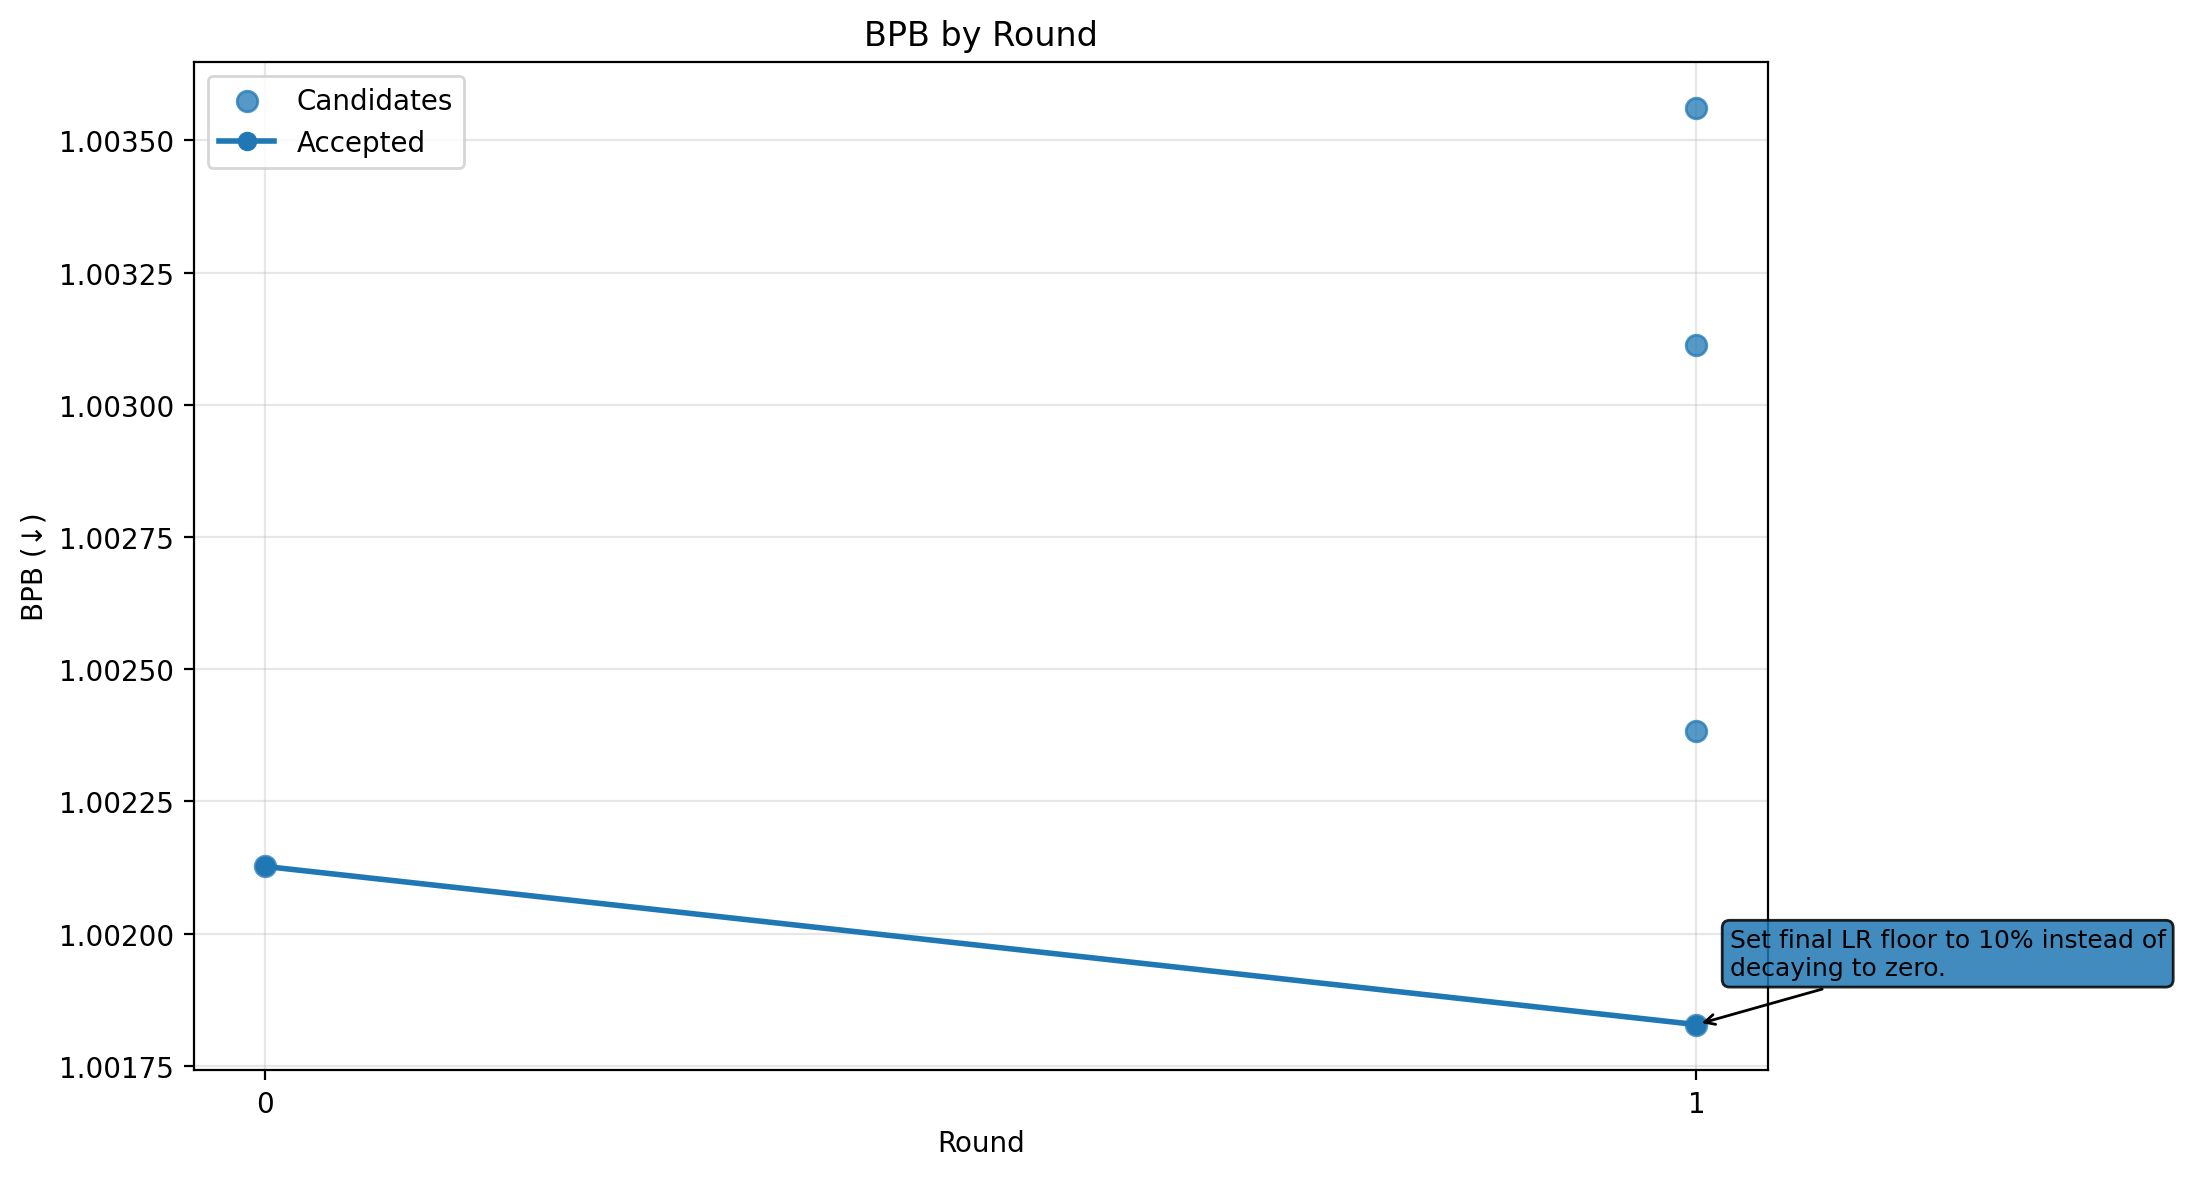
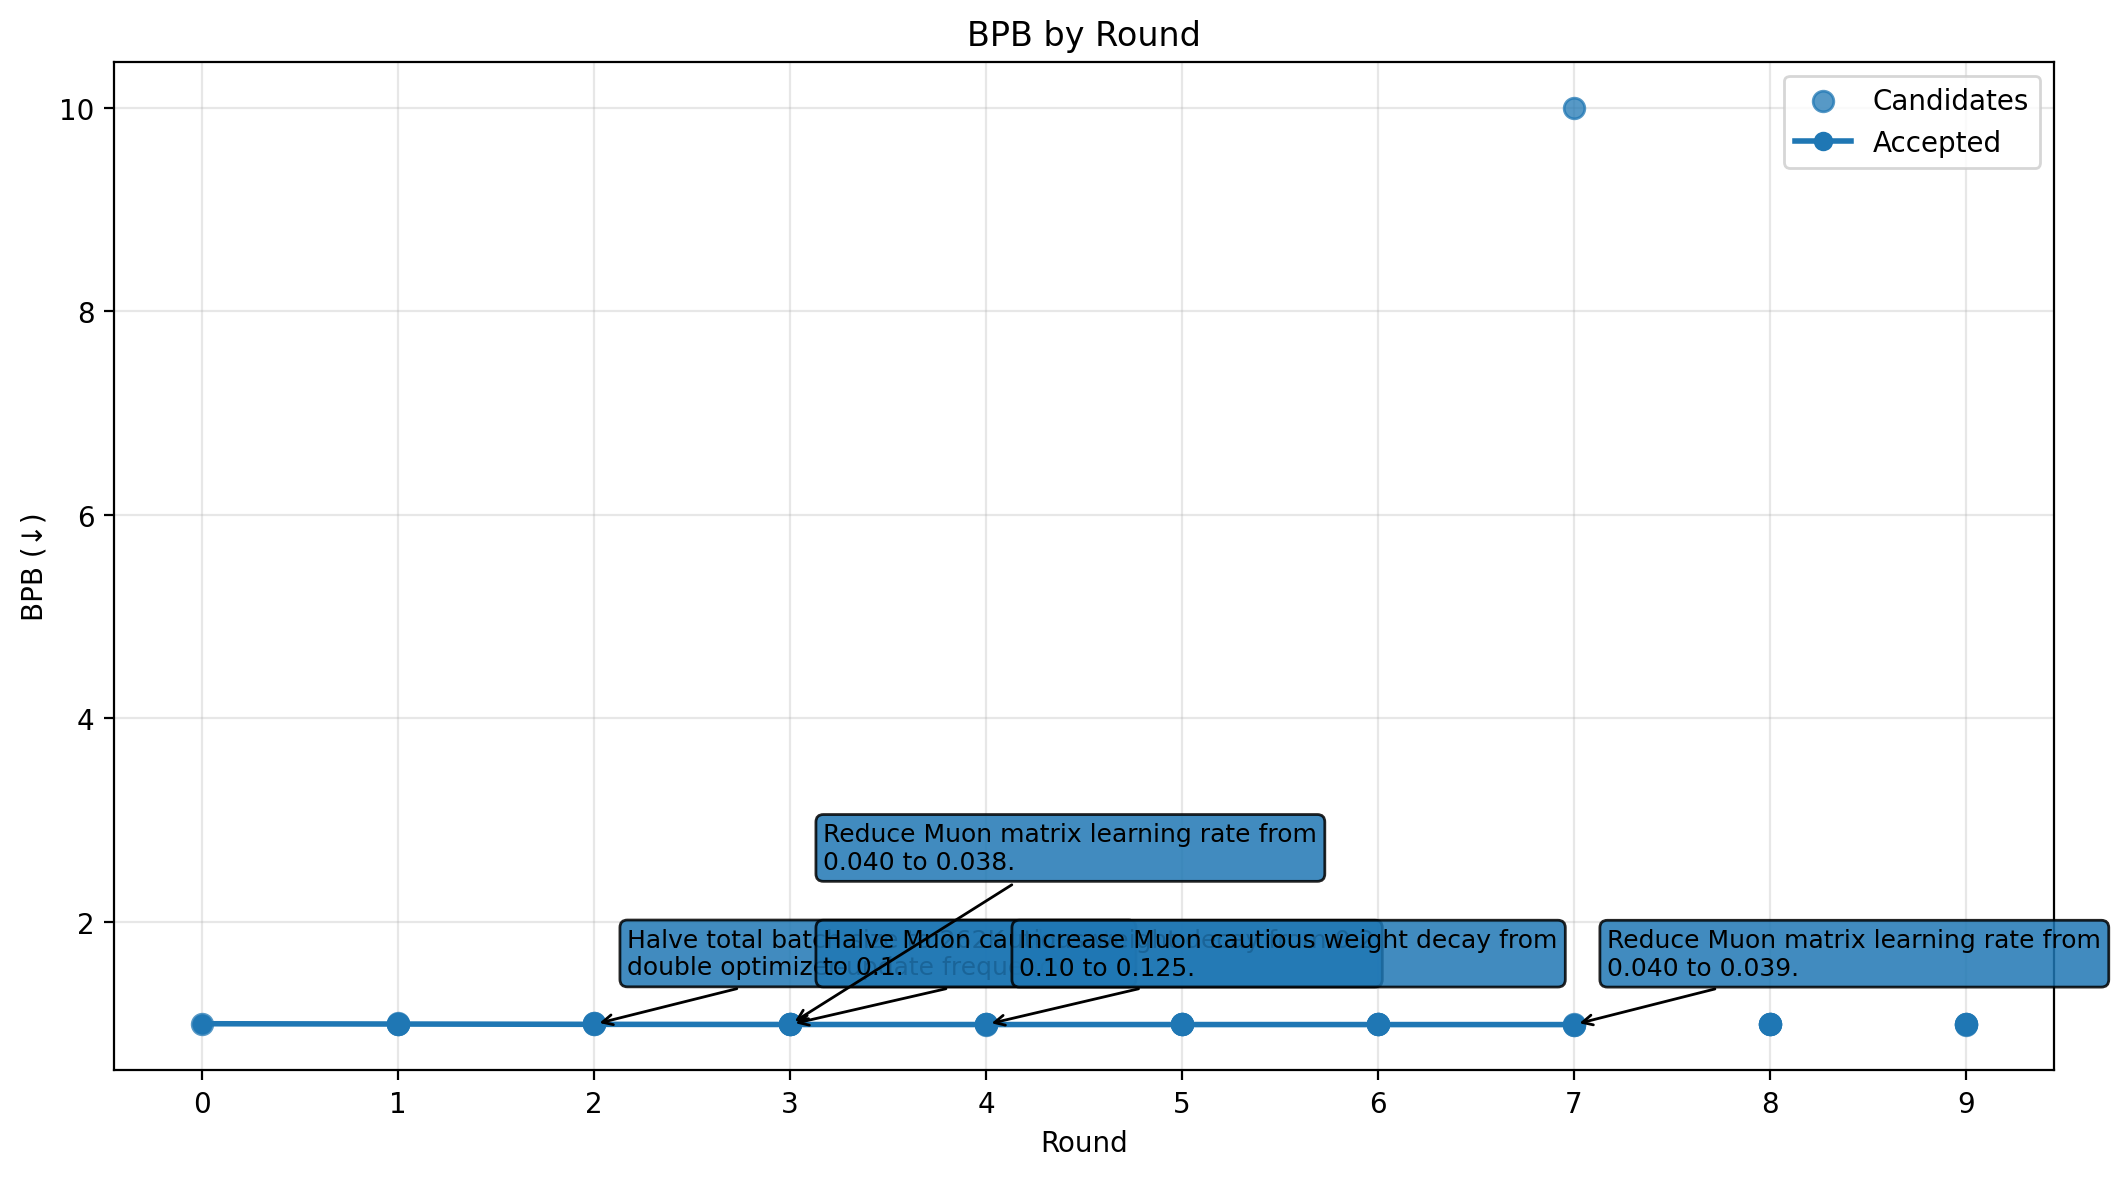
change: null val

diff --git a/plot_results_parallel.py b/plot_results_parallel.py
@@ -25,9 +25,9 @@ def load_results(path: Path):
             if "round" not in record or "val_bpb" not in record:
                 continue
 
-            # val_bpb が null の場合は 10 とする
+            # val_bpb が null の場合は 1 とする
             if record["val_bpb"] is None:
-                record["val_bpb"] = 10
+                record["val_bpb"] = 1
 
             records.append(record)
 
